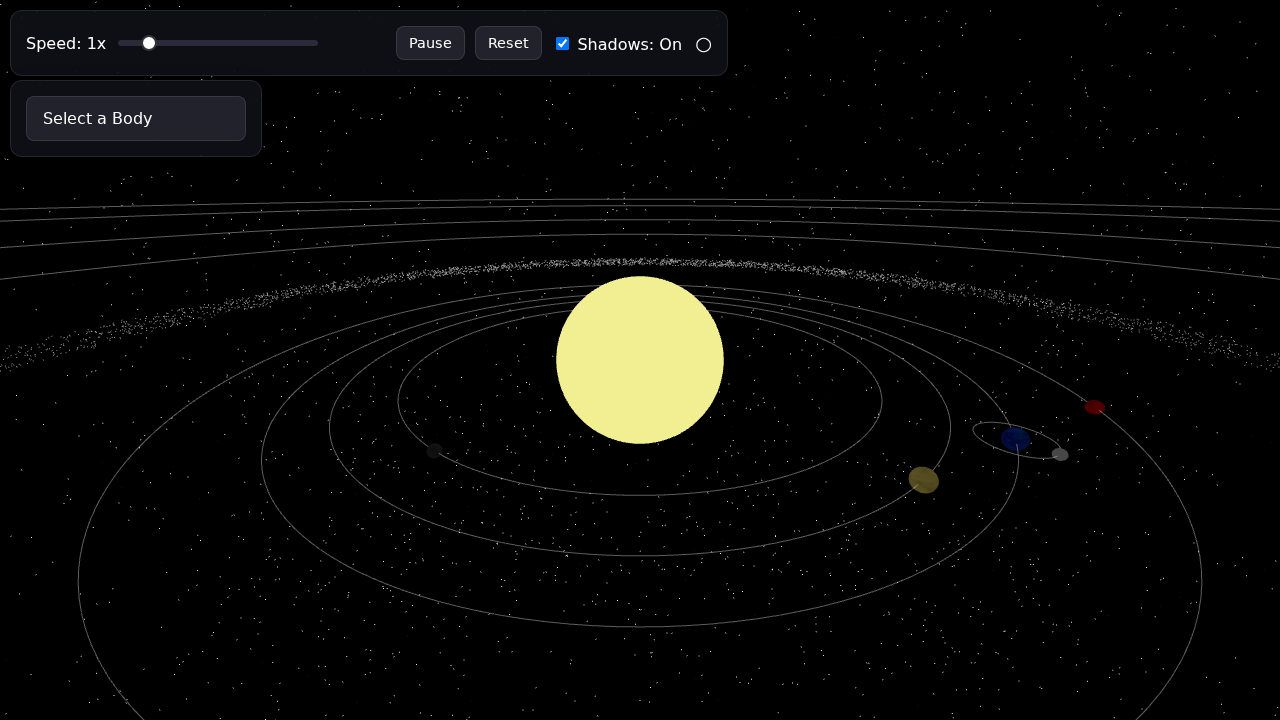
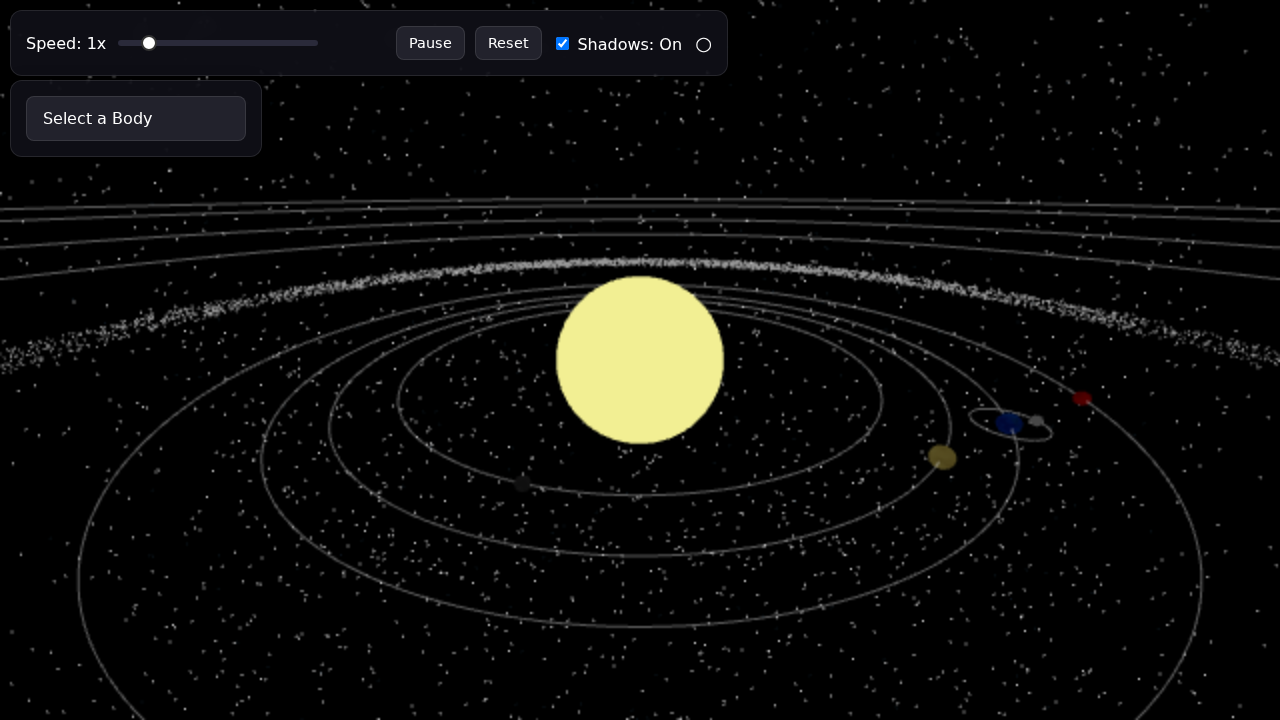
feat: Implement adaptive pixel ratio and FPS-aware dynamic resolution
This commit introduces a dynamic resolution system to improve performance stability across a wide range of hardware. The system monitors the application's frame rate and adaptively adjusts the device pixel ratio (DPR) to maintain a smooth user experience.

Key changes:
- A `perfState` object is introduced in `main.js` to manage performance-related state, including `MAX_DPR`, `dynamicScale`, and frame time thresholds.
- An `applyDPR` function now handles setting the pixel ratio and renderer size, ensuring changes are applied consistently. This function is also called on window resize.
- The main `animate` loop now includes logic to track frame times. It calculates a rolling average and adjusts the `dynamicScale` up or down if the average frame time moves outside a target window (13ms-22ms).
- The hardcoded `setPixelRatio` call and the old resize handler in `js/scene.js` have been removed to centralize the logic in `main.js`.

diff --git a/main.js b/main.js
@@ -33,6 +33,34 @@ const simulation = {
     isTweening: false,
 };
 
+// ===== perfState (module scope) =====
+const perfState = {
+  MAX_DPR: 1.75,      // clamp for devicePixelRatio
+  MIN_SCALE: 0.5,     // lowest dynamicScale
+  dynamicScale: 1.0,  // current scale multiplier (0.5..1.0)
+  frameTimes: [],     // circular buffer of recent frame durations (ms)
+  evalInterval: 1000, // ms between evaluations
+  lastEval: performance.now(),
+  evalWindow: 60,     // number of samples to average (~1s at 60fps)
+  upperMs: 22,        // if avg > upperMs -> step down
+  lowerMs: 13,        // if avg < lowerMs -> step up
+  step: 0.1,          // change step for dynamicScale
+};
+
+// Apply DPR + resize (call whenever dynamicScale or DPR clamp changes)
+function applyDPR() {
+  const dpr = Math.min(window.devicePixelRatio || 1, perfState.MAX_DPR) * perfState.dynamicScale;
+  renderer.setPixelRatio(dpr);
+  renderer.setSize(window.innerWidth, window.innerHeight, false); // false -> don't change style
+  camera.aspect = window.innerWidth / window.innerHeight;
+  camera.updateProjectionMatrix();
+}
+
+// Call once at init to set initial DPR
+applyDPR();
+
+window.addEventListener('resize', applyDPR);
+
 // --- Object Creation ---
 planetData.forEach(p_data => {
     const planetGroup = new THREE.Group();
@@ -331,15 +359,38 @@ shadowToggle.addEventListener('change', updateShadowUI);
 updateShadowUI();
 
 // --- Animation Loop ---
-const clock = new THREE.Clock();
 const cameraTarget = new THREE.Vector3();
 
 function animate() {
     requestAnimationFrame(animate);
 
-    const deltaTime = clock.getDelta();
+    const now = performance.now();
+    const dt = now - (animate._lastTime || now);
+    animate._lastTime = now;
+
+    // store dt (ms) in circular buffer
+    const buf = perfState.frameTimes;
+    buf.push(dt);
+    if (buf.length > perfState.evalWindow) buf.shift();
+
+    // Evaluate every perfState.evalInterval ms
+    if (now - perfState.lastEval >= perfState.evalInterval && buf.length > 3) {
+        perfState.lastEval = now;
+        const avg = buf.reduce((s, v) => s + v, 0) / buf.length;
+
+        if (avg > perfState.upperMs && perfState.dynamicScale > perfState.MIN_SCALE) {
+            perfState.dynamicScale = Math.max(perfState.MIN_SCALE, +(perfState.dynamicScale - perfState.step).toFixed(2));
+            applyDPR();
+            // console.log('perf: lowered scale =>', perfState.dynamicScale, 'avg ms', avg.toFixed(1));
+        } else if (avg < perfState.lowerMs && perfState.dynamicScale < 1.0) {
+            perfState.dynamicScale = Math.min(1.0, +(perfState.dynamicScale + perfState.step).toFixed(2));
+            applyDPR();
+            // console.log('perf: raised scale =>', perfState.dynamicScale, 'avg ms', avg.toFixed(1));
+        }
+    }
+
     if (!simulation.isPaused) {
-        simulation.time += deltaTime * simulation.speed;
+        simulation.time += (dt / 1000) * simulation.speed;
     }
 
     celestialObjects.forEach(p => {

diff --git a/js/scene.js b/js/scene.js
@@ -14,7 +14,6 @@ export function setupScene(canvas) {
         logarithmicDepthBuffer: false
     });
     renderer.setSize(window.innerWidth, window.innerHeight);
-    renderer.setPixelRatio(Math.min(window.devicePixelRatio || 1, 2));
     renderer.shadowMap.enabled = true;
     renderer.shadowMap.type = THREE.PCFSoftShadowMap;
     renderer.toneMapping = THREE.ACESFilmicToneMapping;
@@ -38,12 +37,6 @@ export function setupScene(canvas) {
     controls.mouseButtons.RIGHT = THREE.MOUSE.PAN;
     controls.touches = { ONE: THREE.TOUCH.ROTATE, TWO: THREE.TOUCH.DOLLY_PAN };
     controls.saveState(); // for reset()
-
-    window.addEventListener('resize', () => {
-        camera.aspect = window.innerWidth / window.innerHeight;
-        camera.updateProjectionMatrix();
-        renderer.setSize(window.innerWidth, window.innerHeight);
-    });
 
     return { scene, camera, renderer, controls, pointLight };
 }

diff --git a/jules-scratch/verification/verify_app.py b/jules-scratch/verification/verify_app.py
@@ -3,7 +3,7 @@ from playwright.sync_api import sync_playwright
 def run(playwright):
     browser = playwright.chromium.launch()
     page = browser.new_page()
-    page.goto("http://localhost:3001/solarsystemsim25/")
+    page.goto("http://localhost:3000/solarsystemsim25/")
     page.wait_for_selector('#bg')
     page.screenshot(path="jules-scratch/verification/verification.png")
     browser.close()
